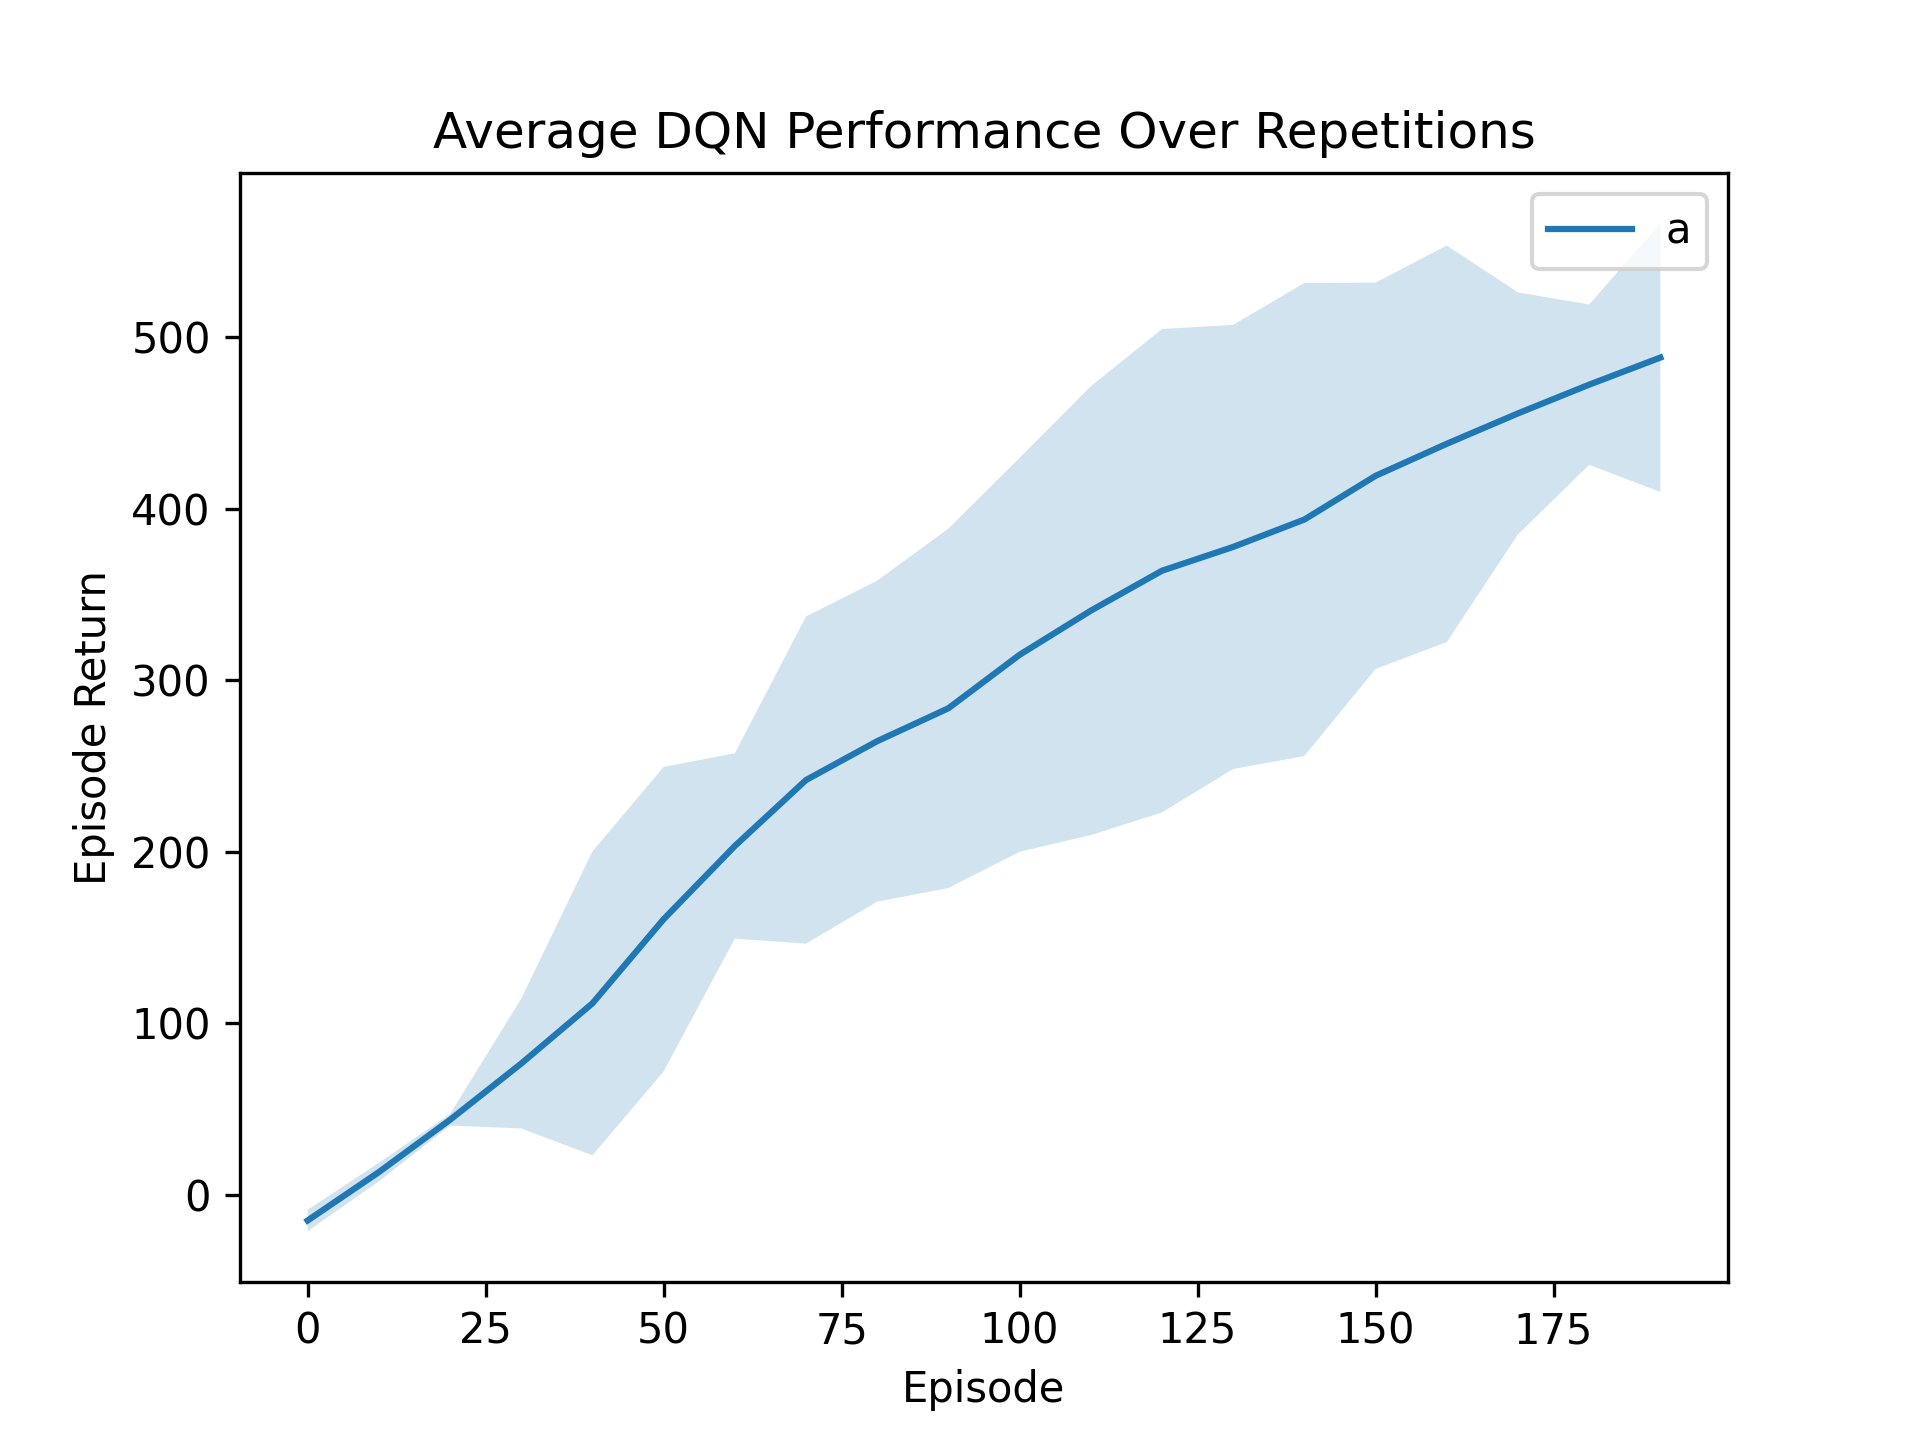
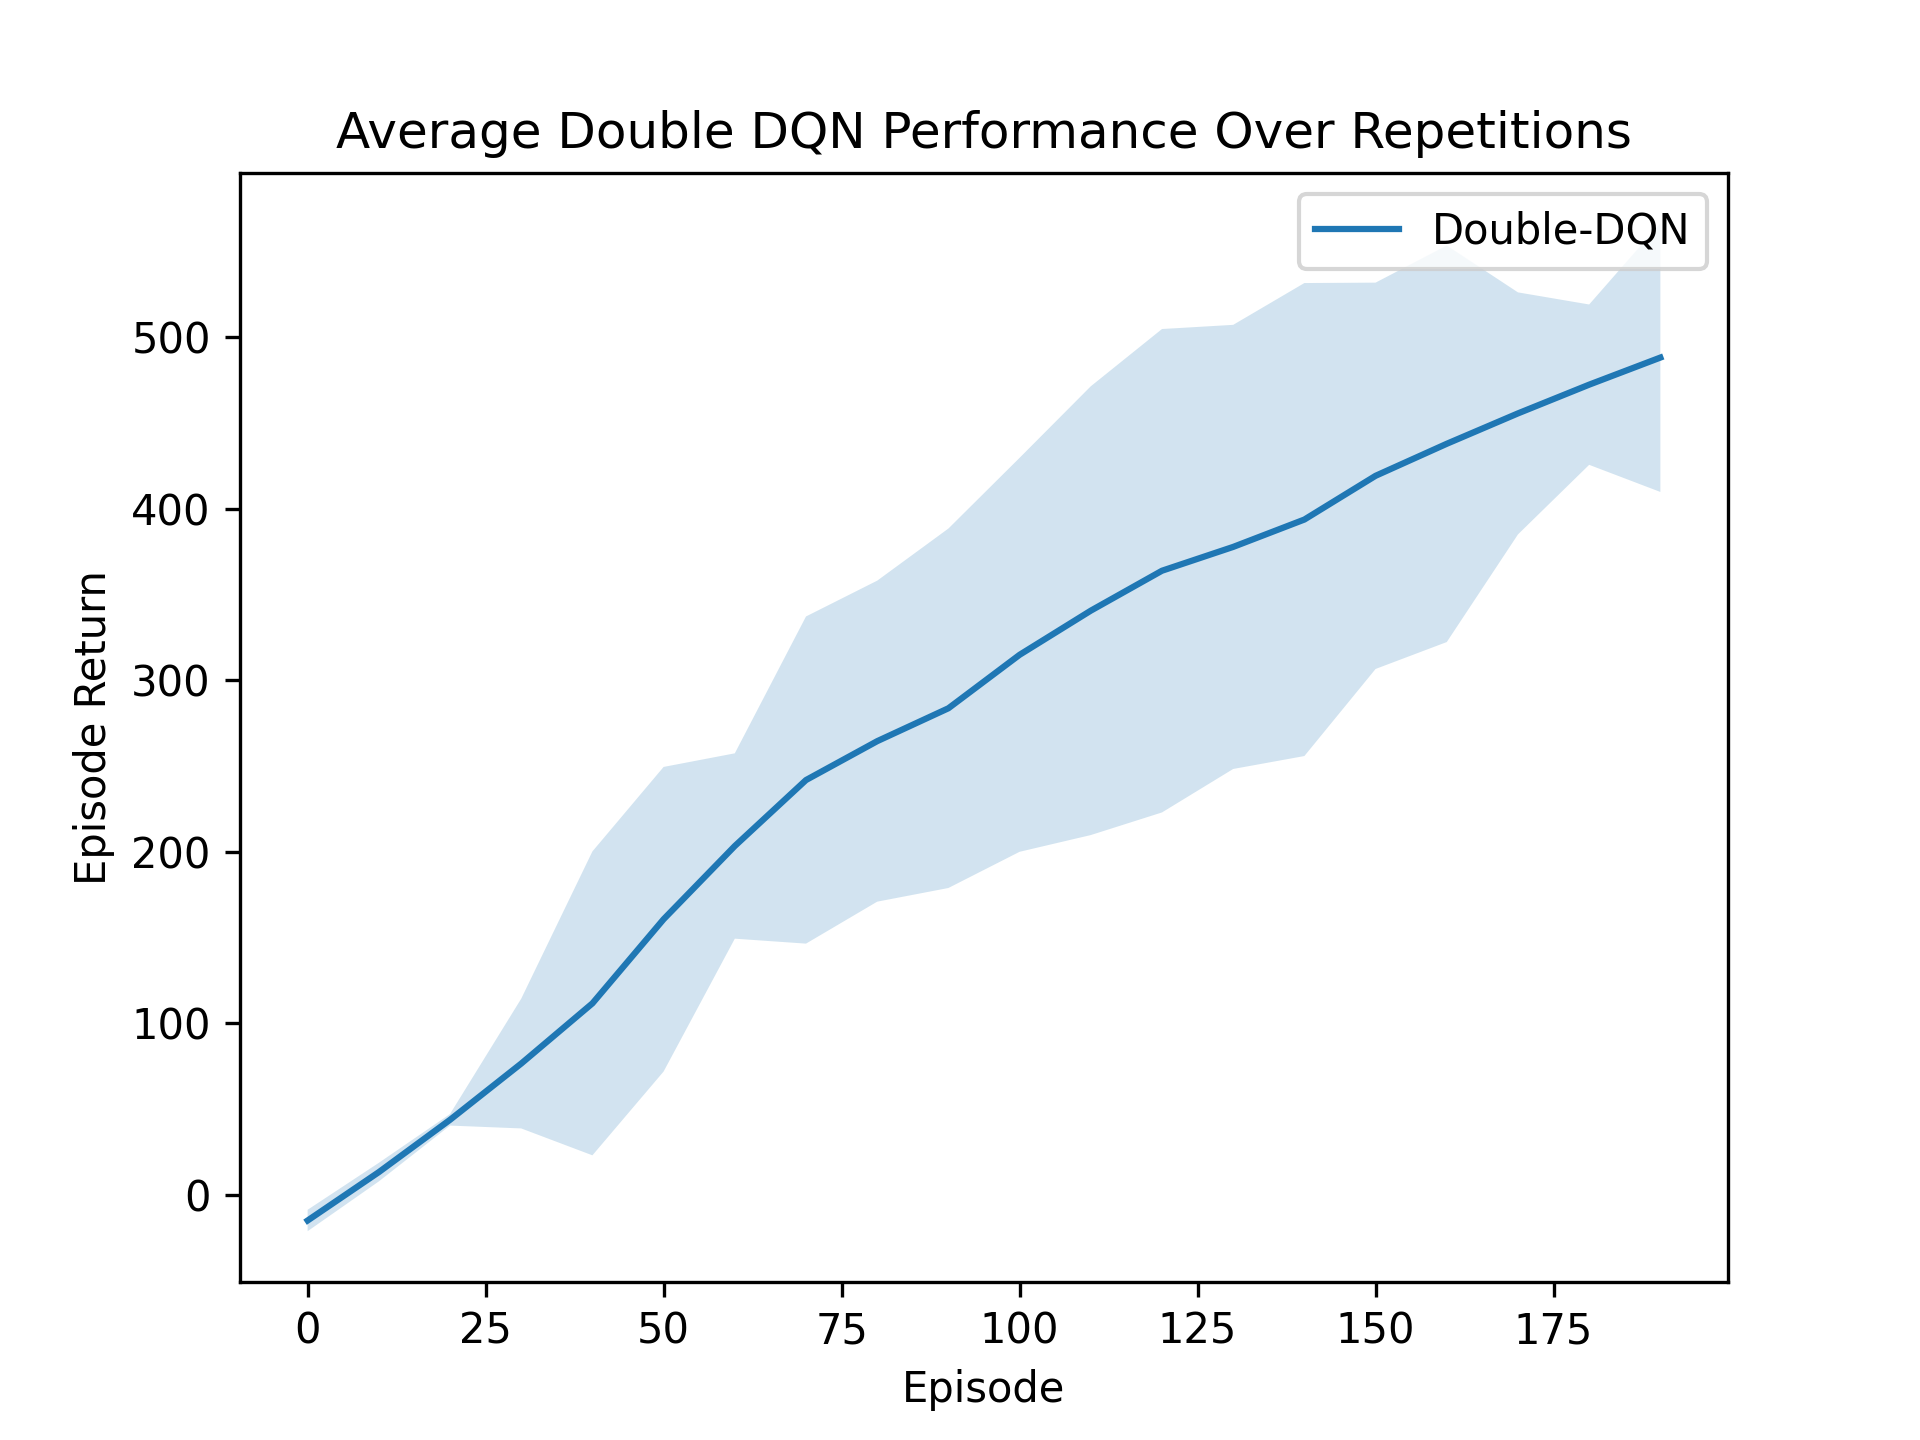
refine labels of the graph

Changed region(s): [[0.1875, 0.0625, 0.875, 0.1875]]

diff --git a/plotter.py b/plotter.py
@@ -42,8 +42,8 @@ episodes, average_returns, sd = np.load(
 # average_returns = np.load("./results/27-03/returns_DQN-ER.npy")
 # sd = np.load("./results/27-03/std_DQN-ER.npy")
 
-plot = LearningCurvePlot(title="Average DQN Performance Over Repetitions")
-plot.add_curve(episodes, average_returns, label="a", std_dev=sd)
+plot = LearningCurvePlot(title="Average Double DQN Performance Over Repetitions")
+plot.add_curve(episodes, average_returns, label="Double-DQN", std_dev=sd)
 plot.save(name="double_dqn.png")
 
 # Plot different results
